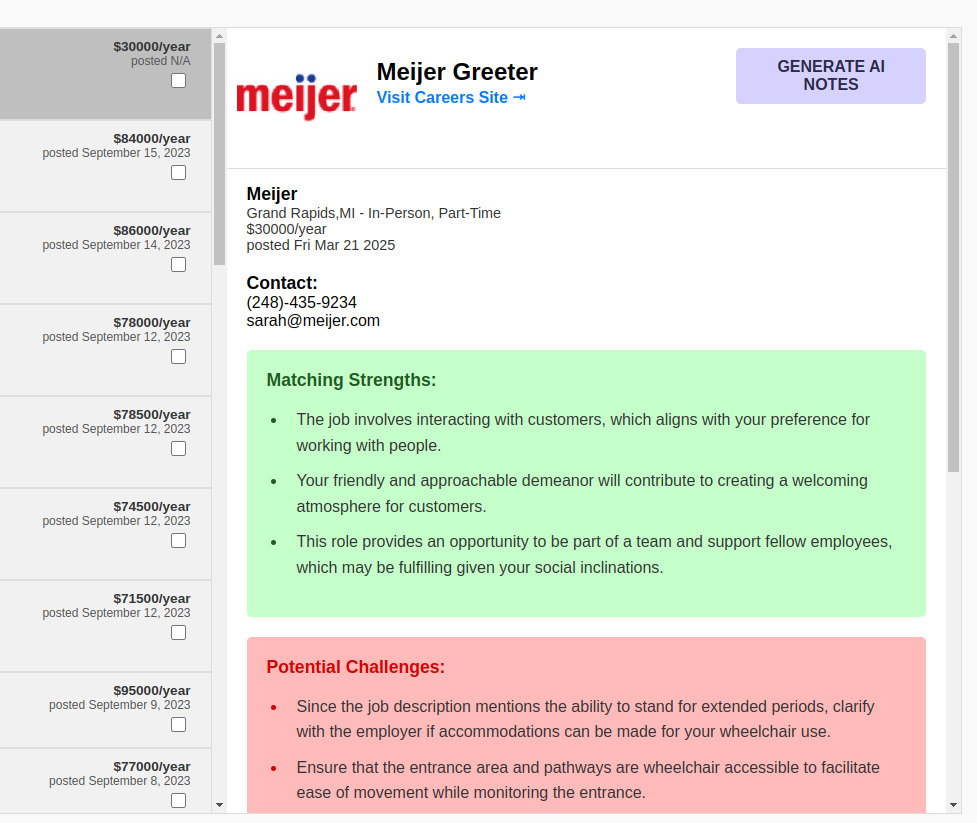
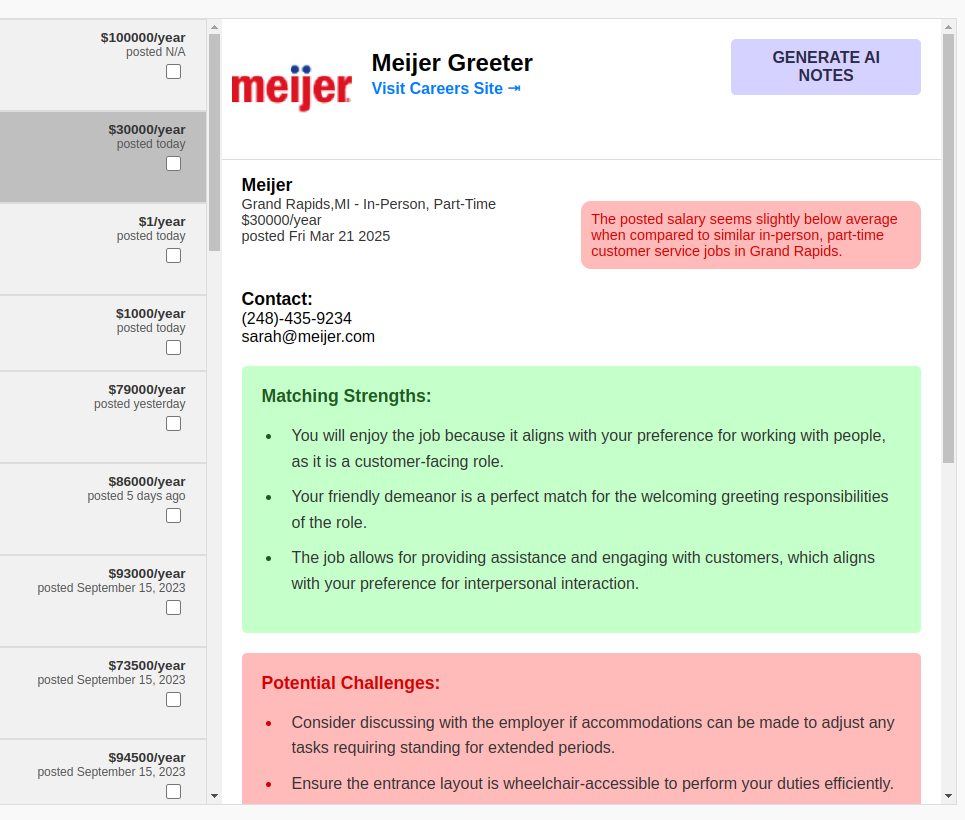
Added more to readme and updated job board pic

diff --git a/README.md b/README.md
@@ -4,16 +4,32 @@ We provide AI-powered job recommendations that connect people with disabilities 
 Search a database of jobs posted by inclusive, accessible employers & receive personalized, AI-generated recommendations that highlight potential strengths and challenges based on individual characteristics.
 
 ## Features
-:star2: feature1
+🌟 **Landing Page**
 
-:star2: feature2
+The landing page describes the purpose of the project and the roles that Job Candidates, Job Coaches, and Employers play in facilitating accessible employment. It also provides guidance on how to use the AI features in the application, along with clear information about how user data will be used.
 
-:star2: feature3
+🌟 **Job Search Functionality for Job Coaches**
+
+Our job board allows Job Coaches to search through a database of jobs using keywords related to a candidate’s interests. Filters can be applied based on relevant criteria such as salary, date posted, workplace type (e.g., remote or on-site), and employment type (e.g., full-time or part-time).
+
+🌟 **AI Feedback on Job Fit**
+
+Users can request AI-generated feedback based on the job description and their personal input, including job preferences and impairments. The system will provide personalized insights on potential strengths and challenges in the role, helping users identify positions that best match their unique abilities.
+
+🌟 **AI Feedback on Salary Competitiveness**
+
+The AI will also evaluate the listed salary for a role and indicate whether it is competitive based on the region and the type of work.
+
+🌟 **Employer Job Submission & Resources**
+
+Employers can submit accessible job listings through our "Add Job" form. This page also includes resources to help employers learn more about accessible employment practices.
+
+![Job board page with personalized feedback of strengths and weeknesses for job candidate based on user-submitted information.](image.png)
 
 ## Software Stack
 - Azure Cosmos DB
-- 
 - React
+-
 - Python
 
 ## Demo
@@ -64,9 +80,17 @@ Navigate to the /server directory
 ## What's Next?
 Our vision is bigger than our timeline. Here's some features we would love to implement in the future:
 
-- **Authentication & Profiles for Each User Type.** Create authentication and profile management for three user types: Job Candidate, Job Coach, and Employer. Job Coaches should be able to create or manage profiles on behalf of their candidates, storing key information such as location, needs, interests, and resumes. This data would automatically feed into the AI job recommendation system.
-- **Job Coach Collaboration Tools** Enable Job Coaches to share Job Candidate profiles and notes. We aim to support every step of the employment process by providing Job Coaches with the tools needed for their candidates' success. This includes the ability to transfer candidate profiles to another coach if needed and to record notes during the employment journey. These notes can help inform future job matches.
-- **Employer Resources for Accessible Employment.** As part of our mission to promote inclusive employment, we want to provide employers with resources that support the integration of employees with disabilities. These materials will help ensure employers are informed, confident, and successful in creating accessible workplaces.
+🌟 **Authentication & Profiles for Each User Type** 
+
+Create authentication and profile management for three user types: Job Candidate, Job Coach, and Employer. Job Coaches should be able to create or manage profiles on behalf of their candidates, storing key information such as location, needs, interests, and resumes. This data would automatically feed into the AI job recommendation system.
+
+🌟 **Job Coach Collaboration Tools** 
+
+Enable Job Coaches to share Job Candidate profiles and notes. We aim to support every step of the employment process by providing Job Coaches with the tools needed for their candidates' success. This includes the ability to transfer candidate profiles to another coach if needed and to record notes during the employment journey. These notes can help inform future job matches.
+
+🌟 **Employer Education for Accessible Employment** 
+
+As part of our mission to promote inclusive employment, we want to provide employers with resources that support the integration of employees with disabilities. These materials will help ensure employers are informed, confident, and successful in creating accessible workplaces.
 
 ## Attribution
 See the following attribution for images in client/public:
